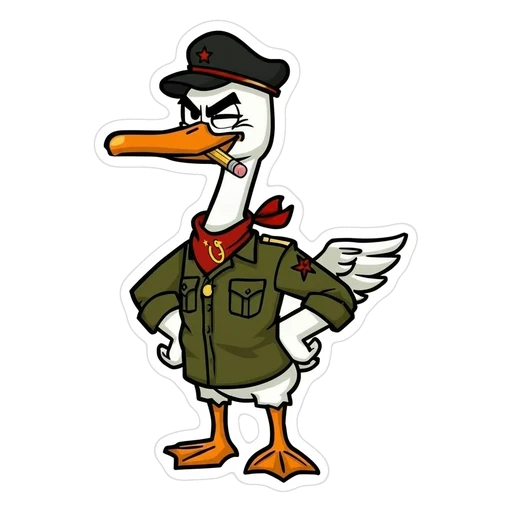
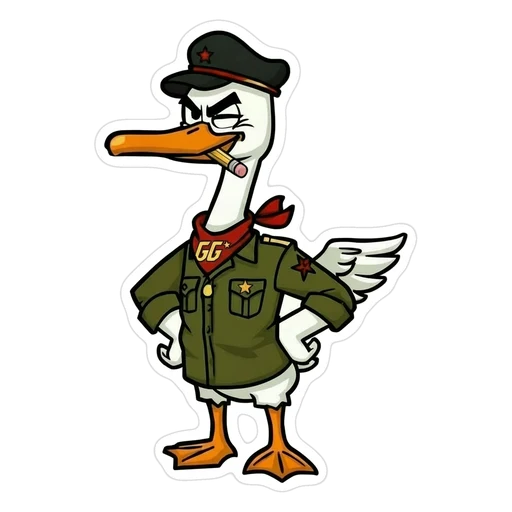
Мигель: финальная основа со знаком GG на бандане

diff --git a/docs/miguel/miguel.md b/docs/miguel/miguel.md
@@ -15,7 +15,8 @@
 **Основа выбрана (2026-10-27):** `public/miguel/miguel-base.webp` (стикер 512×512, прозрачный фон),
 исходник от Leonardo — `docs/miguel/miguel-base-leonardo.jpg`. Длинная шея, хмурые брови и прищур,
 чёрная фуражка с красной звездой, красная бандана, оливковая полевая куртка, крылья на поясе,
-**карандаш в уголке клюва ластиком к щеке** (вместо сигары — фишка персонажа; дым и сигару не рисуем).
+**карандаш в уголке клюва ластиком к щеке** (вместо сигары — фишка персонажа; дым и сигару не рисуем),
+**золотой знак «GG» со звёздочкой на бандане** (нарисовал Leonardo, финальная основа 2026-10-27).
 
 Как делать остальные эмоции: Leonardo → AI Creation → **Image Guidance** → загрузить исходник
 `miguel-base-leonardo.jpg`, сила **0.5–0.6** (выше — копирует позу, ниже — теряет лицо). 4 варианта за раз.
@@ -56,7 +57,7 @@ Negative (всегда):
 Отдельно (после согласования): армия гусиков — `group of three small cartoon goslings in tiny military caps
 marching behind a leader, same style`.
 
-**Знак на бандане (2026-10-27):** свой золотой знак в цвет пуговицы (`#E9C842`) — голова гуся, которая
+**Знак на бандане (2026-10-27):** в итоге Leonardo сам нарисовал «GG» со звёздочкой — он в основе. Ниже — ранний вариант: свой золотой знак в цвет пуговицы (`#E9C842`) — голова гуся, которая
 складывается в букву «G» (GG), со звёздочкой; наклонён и вытянут вверх. Птицу МФТИ не рисуем даже «похожую»
 (знак вуза, читается как «одобрено МФТИ»). Нарисован скриптом `docs/miguel/tools/emblem.py`
 (параметры: центр 444 506, масштаб 1.15, наклон −22°, вытягивание 1.7), картинка со знаком —
